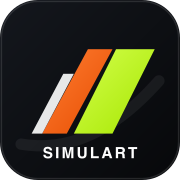
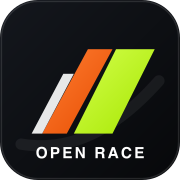
chore(branding): rename game to Open Race

Changed region(s): [[0.1944, 0.8056, 0.8056, 0.8889]]

diff --git a/app/layout.tsx b/app/layout.tsx
@@ -3,16 +3,16 @@ import { PwaRegister } from '@/components/PwaRegister';
 import './globals.css';
 
 export const metadata: Metadata = {
-  title: 'Simulart Tracks — by Arigatoo Club',
+  title: 'Open Race — by Arigatoo Club',
   description:
-    'Simulart Tracks: A browser Formula racing game by Arigatoo Club featuring full grid AI, telemetry, custom liveries, and authentic circuits.',
-  keywords: ['Simulart Tracks', 'Arigatoo Club', 'F1', 'Racing Game', 'Three.js', 'Next.js', 'React Three Fiber', 'PWA'],
+    'Open Race: A browser Formula racing game by Arigatoo Club featuring full grid AI, telemetry, custom liveries, and authentic circuits.',
+  keywords: ['Open Race', 'Arigatoo Club', 'F1', 'Racing Game', 'Three.js', 'Next.js', 'React Three Fiber', 'PWA'],
   authors: [{ name: 'Arigatoo Club' }],
-  applicationName: 'Simulart Tracks',
+  applicationName: 'Open Race',
   appleWebApp: {
     capable: true,
     statusBarStyle: 'black-translucent',
-    title: 'Simulart Tracks',
+    title: 'Open Race',
   },
   icons: {
     icon: '/icon.svg',

diff --git a/components/ui/MainMenu.tsx b/components/ui/MainMenu.tsx
@@ -58,12 +58,12 @@ export function MainMenu() {
   const best = mounted ? records.bestLaps[bestKey] : undefined;
 
   return (
-    <main className="l-root" aria-label="Simulart Tracks lobby">
+    <main className="l-root" aria-label="Open Race lobby">
       <header className="l-top">
         <div className="l-brand">
           <span className="l-flag" aria-hidden="true" />
           <div>
-            <h1>Simulart Tracks</h1>
+            <h1>Open Race</h1>
             <p>by Arigatoo Club · Buddh International Circuit</p>
           </div>
         </div>

diff --git a/app/manifest.ts b/app/manifest.ts
@@ -2,9 +2,9 @@ import type { MetadataRoute } from 'next';
 
 export default function manifest(): MetadataRoute.Manifest {
   return {
-    name: 'Simulart Tracks — by Arigatoo Club',
-    short_name: 'Simulart Tracks',
-    description: 'Simulart Tracks: Browser Formula Racing & SAE Pegasus #53 Simulation',
+    name: 'Open Race — by Arigatoo Club',
+    short_name: 'Open Race',
+    description: 'Open Race: Browser Formula Racing & SAE Pegasus #53 Simulation',
     start_url: '/',
     id: '/',
     scope: '/',

diff --git a/components/PwaRegister.tsx b/components/PwaRegister.tsx
@@ -67,7 +67,7 @@ export function PwaRegister() {
           fontFamily: 'var(--font-mono, monospace)',
           clipPath: 'polygon(0 0, 100% 0, 100% calc(100% - 6px), calc(100% - 6px) 100%, 0 100%)',
         }}
-        title="Install Simulart Tracks app to your device"
+        title="Install Open Race app to your device"
       >
         <span className="text-sm">📲</span>
         <span>Install App</span>

diff --git a/components/ui/LoadingScreen.tsx b/components/ui/LoadingScreen.tsx
@@ -84,7 +84,7 @@ export function LoadingScreen() {
             className="text-4xl sm:text-5xl font-normal tracking-wide uppercase m-0 leading-none"
             style={{ fontFamily: 'var(--font-display, Anton, sans-serif)' }}
           >
-            SIMULART TRACKS
+            OPEN RACE
           </h1>
           <div
             className="text-xs uppercase tracking-[0.16em]"

diff --git a/public/sw.js b/public/sw.js
@@ -1,5 +1,5 @@
-// Simulart Tracks — Progressive Web App Service Worker
-const CACHE_NAME = 'simulart-tracks-v1';
+// Open Race — Progressive Web App Service Worker
+const CACHE_NAME = 'open-race-v1';
 const ASSETS_TO_CACHE = [
   '/',
   '/manifest.webmanifest',

diff --git a/README.md b/README.md
@@ -1,6 +1,6 @@
-# Simulart Tracks (Buddh GP)
+# Open Race (Buddh GP)
 
-**Simulart Tracks** is a high-performance browser-based 3D racing simulation game set on the Buddh International Circuit, created by **Arigatoo Club**. Race a full grid of AI rivals around the track, manage tyres, pit stops, DRS and ERS, and watch the race back with TV-style cameras. It runs entirely in the browser on WebGL2, with no install step beyond the dev server.
+**Open Race** is a high-performance browser-based 3D racing simulation game set on the Buddh International Circuit, created by **Arigatoo Club**. Race a full grid of AI rivals around the track, manage tyres, pit stops, DRS and ERS, and watch the race back with TV-style cameras. It runs entirely in the browser on WebGL2, with no install step beyond the dev server.
 
 ## Features
 

diff --git a/GEMINI.md b/GEMINI.md
@@ -1,4 +1,4 @@
-# Simulart Tracks (by Arigatoo Club) — Antigravity Agent Rules
+# Open Race (by Arigatoo Club) — Antigravity Agent Rules
 
 > This file is the **Antigravity** (`GEMINI.md`) rules file for this project.
 > It works alongside `AGENTS.md` (Next.js agent rules auto-written by `next dev`).
@@ -8,7 +8,7 @@
 
 ## Project Identity
 
-- **Game Name:** **Simulart Tracks**
+- **Game Name:** **Open Race**
 - **Creator / Studio:** **Arigatoo Club**
 - **Description:** Browser-based racing simulation game.
 - **Stack:** **Next.js 16** (App Router, fully client-side) · **React Three Fiber 9** · **Three.js r186 (WebGL2)** · **Zustand** · **Vitest**.
